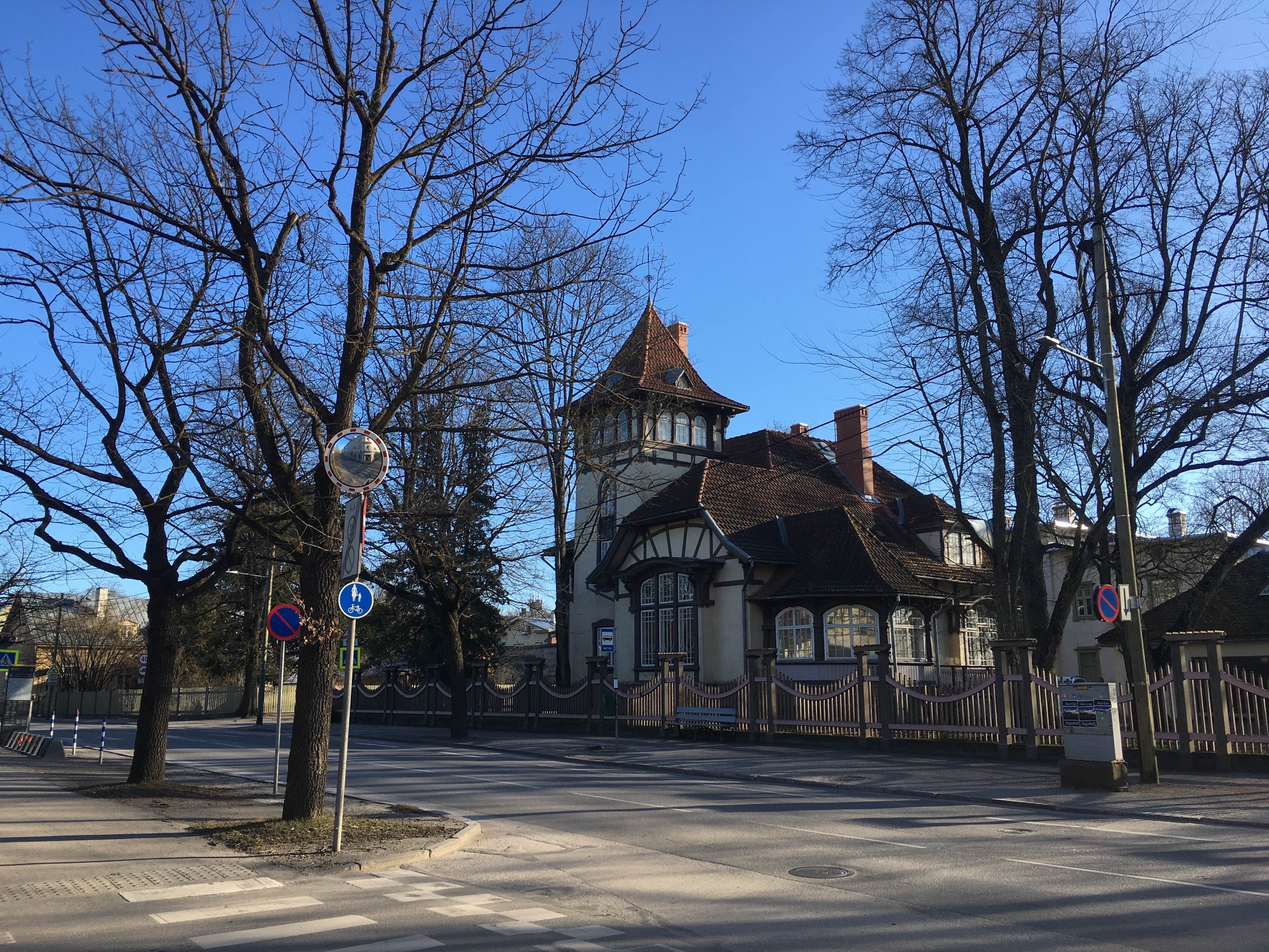
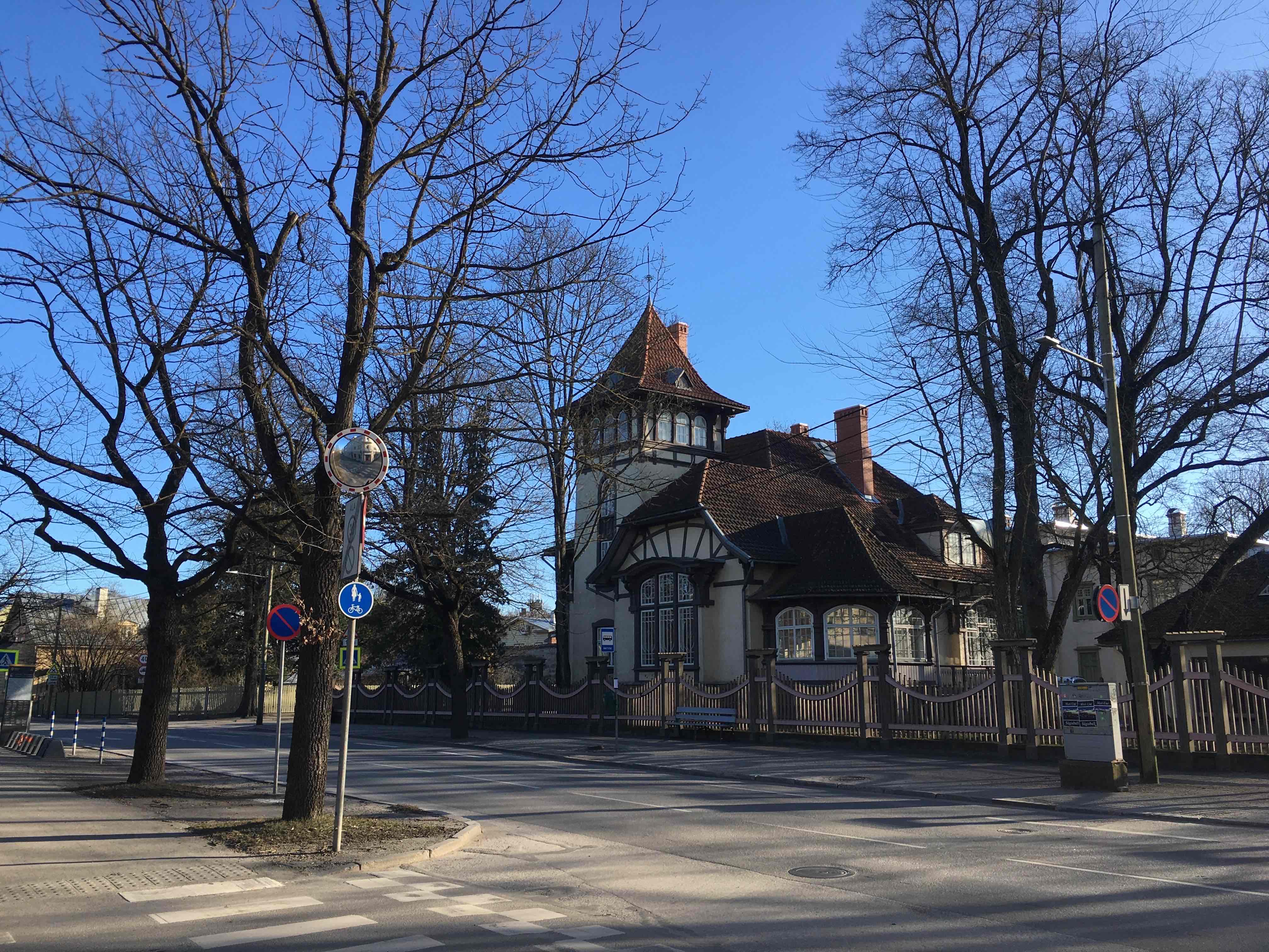
Remove dithered imgs from posts, compress heavily instead

diff --git a/posts/naituse/index.html b/posts/naituse/index.html
@@ -25,10 +25,8 @@
             <em>2021-07-05</em>
 
             <div class="post-img-container">
-                <a href="img/cover.jpg">
-                    <img src="img-dither/cover.jpg" alt="A collage of photos of the street Näituse in Tartu."
+                <img src="img/cover.jpg" alt="A collage of photos of the street Näituse in Tartu."
                     loading="lazy">
-                </a>
             </div>
 
             <p>Näituse is my favorite street in Tartu.</p>
@@ -59,10 +57,8 @@
             </ul>
 
             <div class="post-img-container">
-                <a href="img/2021-07-03_12-54-30.jpg">
-                    <img src="img-dither/2021-07-03_12-54-30.png" alt="A view of Näituse street during summer."
+                <img src="img/2021-07-03_12-54-30.jpg" alt="A view of Näituse street during summer."
                     loading="lazy">
-                </a>
             </div>
 
             <p>The main feature of the street, in my view, is the amazing array of trees beside the car road. During
@@ -79,11 +75,9 @@
                 yet the whole street is asleep, making it safe and peaceful to wonder through.</p>
 
             <div class="post-img-container">
-                <a href="img/2020-02-04_12-36-33.jpg">
-                    <img src="img-dither/2020-02-04_12-36-33.png"
+                <img src="img/2020-02-04_12-36-33.jpg"
                     alt="A view of Näituse street during late winter. The Neobaltia building is visible."
                     loading="lazy">
-                </a>
             </div>
 
             <p>Besides the atmosphere of this street, the most remarkable thing is how well it connects the (almost)
@@ -96,11 +90,9 @@
                 through Näituse. You will certainly enjoy it.</p>
 
             <div class="post-img-container">
-                <a href="img/map.png">
-                    <img style="margin-bottom: 0;" src="img-dither/map.png"
+                <img style="margin-bottom: 0;" src="img/map.jpg"
                     alt="Fragment of a map of Tartu, Näituse street highlighted."
                     loading="lazy">
-                </a>
                 <small style="float: right;">
                     <a href="https://www.openstreetmap.org/copyright">© OpenStreetMap contributors</a>
                 </small>
